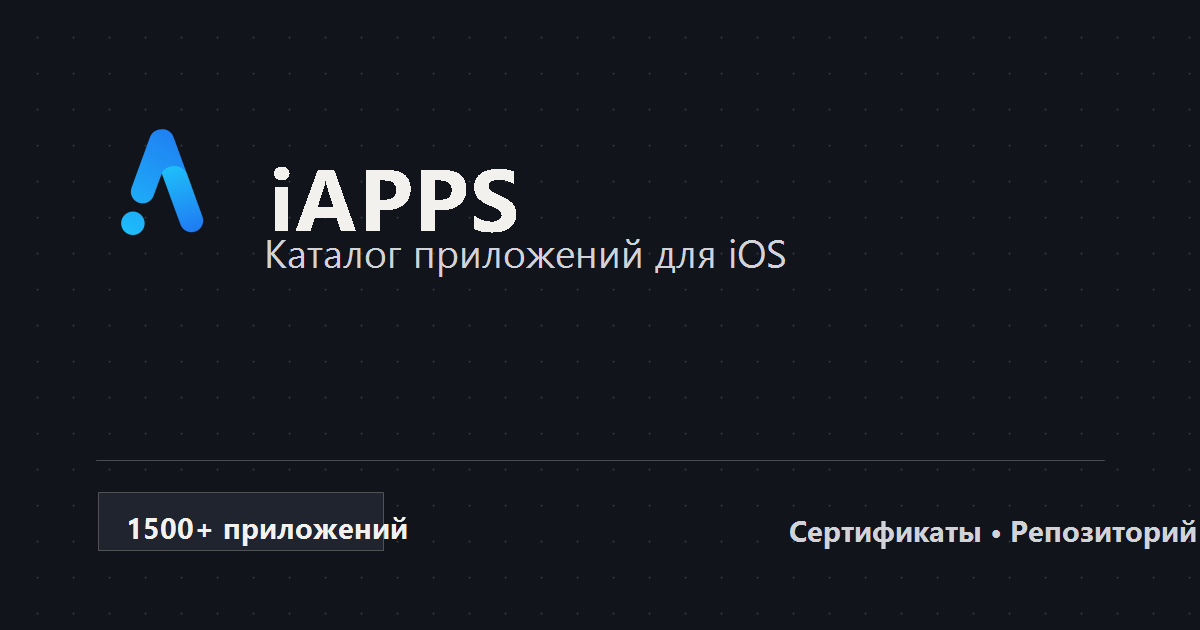
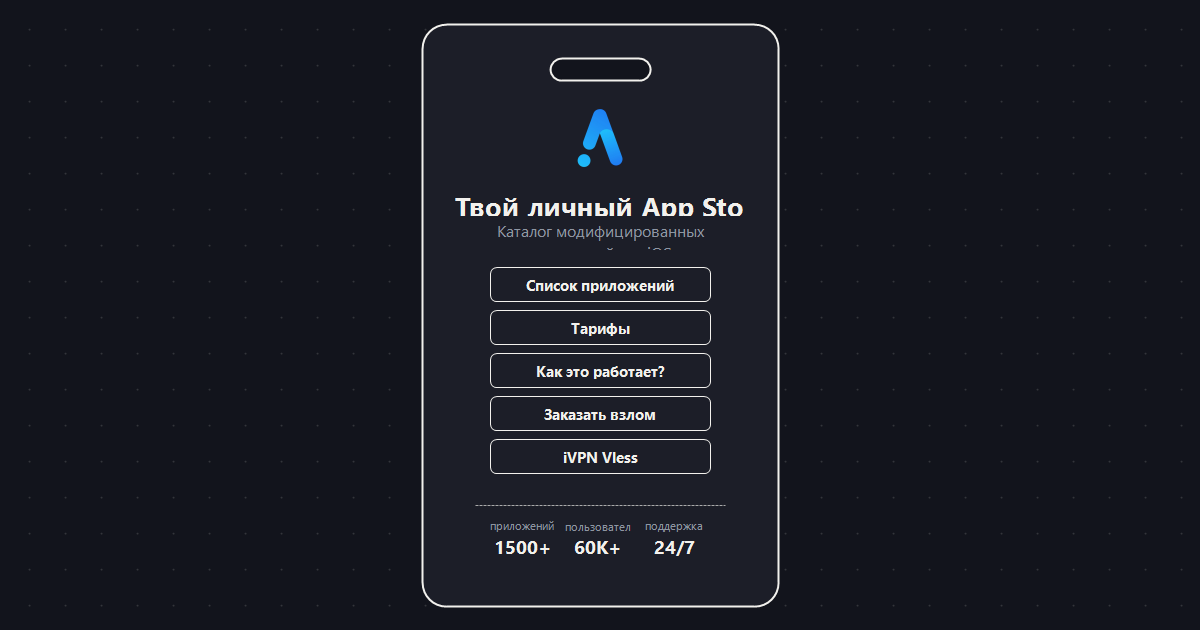
Use phone preview for social sharing

diff --git a/index.html b/index.html
@@ -25,7 +25,7 @@
     <meta property="og:site_name" content="iAPPS">
     <meta property="og:locale" content="ru_RU">
     <meta property="og:url" content="https://gavgavrilov2.github.io/polyatar/">
-    <meta property="og:image" content="https://gavgavrilov2.github.io/polyatar/og-image.png">
+    <meta property="og:image" content="https://gavgavrilov2.github.io/polyatar/og-image.png?v=2">
     <meta property="og:image:width" content="1200">
     <meta property="og:image:height" content="630">
     <meta property="og:image:type" content="image/png">
@@ -35,7 +35,7 @@
     <meta name="twitter:card" content="summary_large_image">
     <meta name="twitter:title" content="iAPPS — iOS Сертификаты & Репозиторий">
     <meta name="twitter:description" content="Каталог из 1500+ взломанных iOS приложений.">
-    <meta name="twitter:image" content="https://gavgavrilov2.github.io/polyatar/og-image.png">
+    <meta name="twitter:image" content="https://gavgavrilov2.github.io/polyatar/og-image.png?v=2">
     <meta name="twitter:image:alt" content="iAPPS - каталог приложений для iOS">
 
     <!-- Favicon: щит с яблоком (как логотип в шапке) -->
@@ -43,11 +43,11 @@
 
     <!-- Preload: браузер начинает грузить сразу, не дожидаясь JS.
          Repo.json — самые тяжёлые данные (~700KB), logo — показывается сразу. -->
-    <link rel="preload" href="Repo.json?v=116" as="fetch" crossorigin>
+    <link rel="preload" href="Repo.json?v=117" as="fetch" crossorigin>
     <link rel="preload" href="logo.png" as="image">
 
     <link rel="stylesheet" href="https://cdnjs.cloudflare.com/ajax/libs/font-awesome/6.4.0/css/all.min.css">
-    <link rel="stylesheet" href="style.css?v=116">
+    <link rel="stylesheet" href="style.css?v=117">
 </head>
 <body>
 
@@ -387,11 +387,11 @@
 
     <!-- Скрипты: порядок важен! Сначала config.js (ссылки), потом i18n, потом основная логика -->
     <!-- Данные приложений берутся из Repo.json через fetch — обновляй его, чтобы менять каталог -->
-    <!-- ?v=116 принудительно сбрасывает кэш браузера после обновлений -->
+    <!-- ?v=117 принудительно сбрасывает кэш браузера после обновлений -->
     <!-- CACHE_VERSION используется в script.js для сброса кэша Repo.json -->
-    <script>window.CACHE_VERSION = 116;</script>
-    <script src="config.js?v=116"></script>
-    <script src="translations.js?v=116"></script>
-    <script src="script.js?v=116"></script>
+    <script>window.CACHE_VERSION = 117;</script>
+    <script src="config.js?v=117"></script>
+    <script src="translations.js?v=117"></script>
+    <script src="script.js?v=117"></script>
 </body>
 </html>

diff --git a/service-worker.js b/service-worker.js
@@ -12,7 +12,7 @@
 // получали свежие данные, а не вечный офлайн-кэш).
 // ==========================================================================
 
-const CACHE_VERSION = 'iapps-v116';
+const CACHE_VERSION = 'iapps-v117';
 const CORE_ASSETS = [
     './',
     './index.html',

diff --git a/validate-catalog.js b/validate-catalog.js
@@ -66,7 +66,7 @@ if (!cacheVersion || cacheVersion !== workerVersion || preloadVersion !== cacheV
     if (!fs.existsSync(path.join(__dirname, filename))) errors.push(`missing SEO file: ${filename}.`);
 });
 if (!indexHtml.includes(`rel="canonical" href="${siteUrl}"`)) errors.push('canonical URL is missing or incorrect.');
-if (!indexHtml.includes(`property="og:image" content="${siteUrl}og-image.png"`)) errors.push('Open Graph image URL is missing or incorrect.');
+if (!indexHtml.includes(`property="og:image" content="${siteUrl}og-image.png?v=2"`)) errors.push('Open Graph image URL is missing or incorrect.');
 if (!indexHtml.includes('name="twitter:card" content="summary_large_image"')) errors.push('Twitter large image card is missing.');
 if (fs.existsSync(path.join(__dirname, 'robots.txt')) && !fs.readFileSync(path.join(__dirname, 'robots.txt'), 'utf8').includes(`${siteUrl}sitemap.xml`)) errors.push('robots.txt sitemap URL is missing or incorrect.');
 if (fs.existsSync(path.join(__dirname, 'sitemap.xml')) && !fs.readFileSync(path.join(__dirname, 'sitemap.xml'), 'utf8').includes(siteUrl)) errors.push('sitemap.xml site URL is missing or incorrect.');